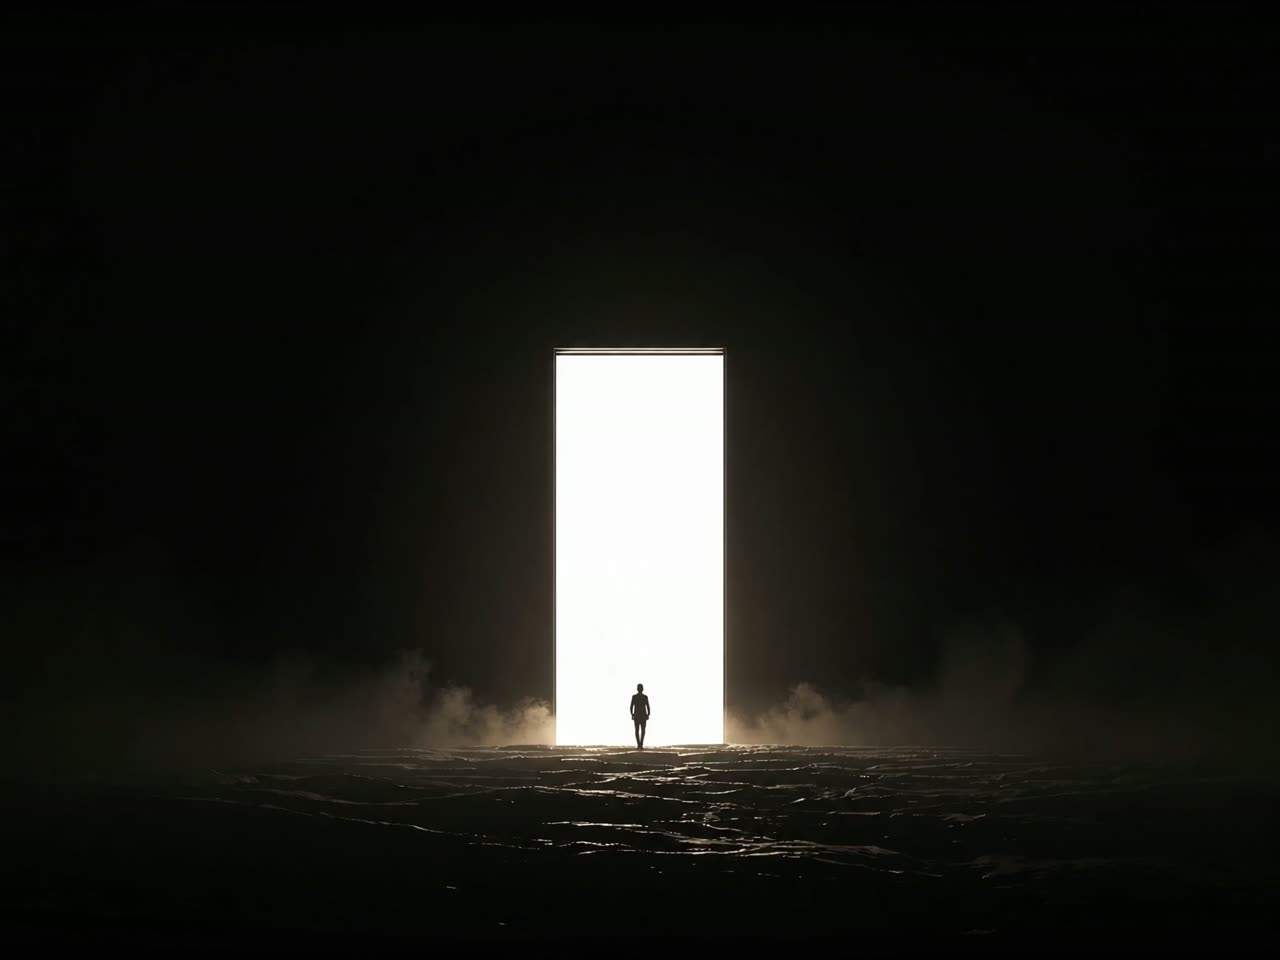
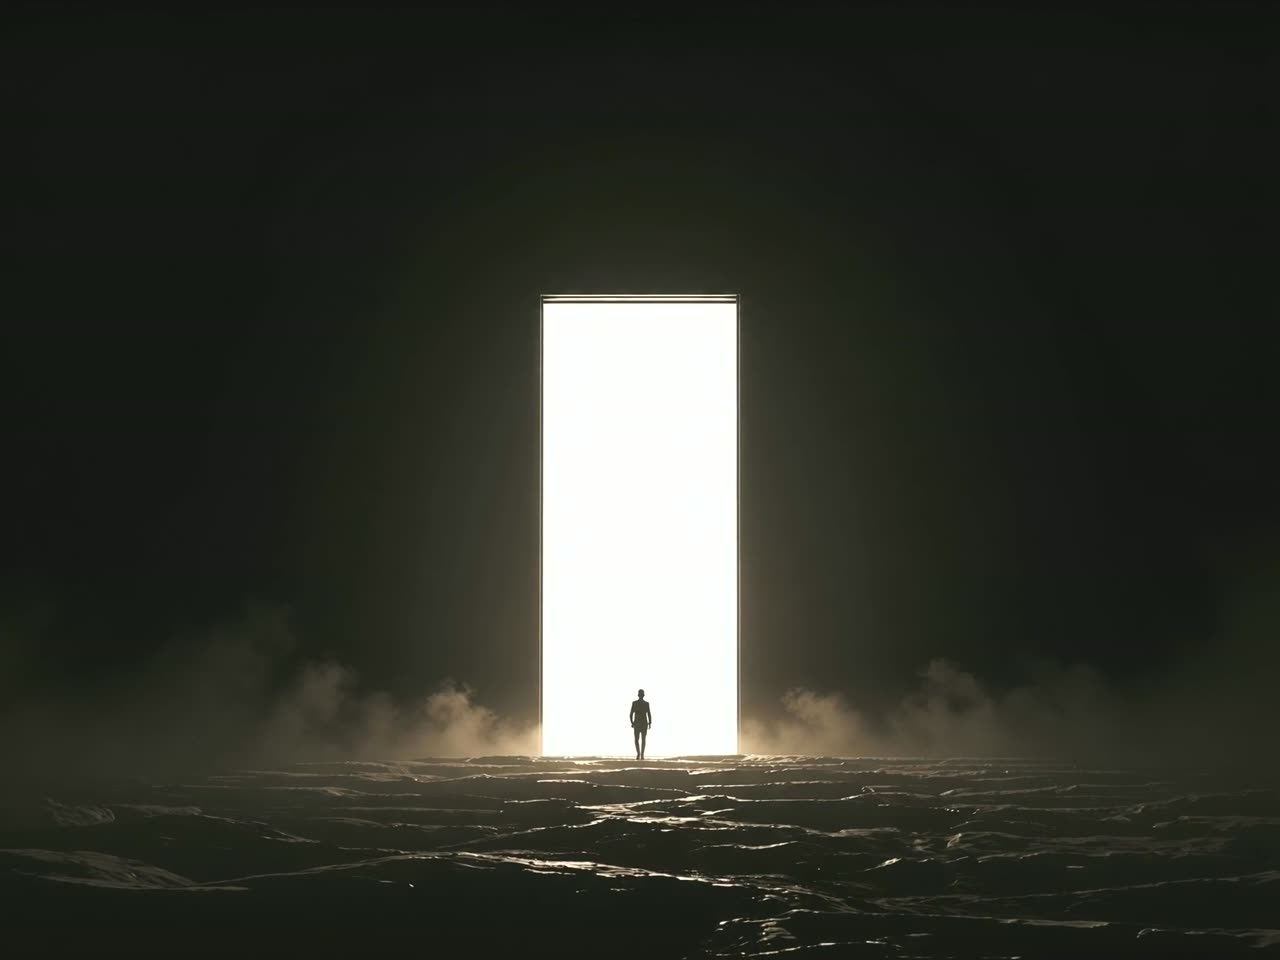
fix: 微信内置浏览器视频自动播放(WeixinJSBridge+首触播放+X5同层)，封面取亮帧并整体提亮

diff --git a/index.html b/index.html
@@ -75,6 +75,7 @@ button { font-family: inherit; cursor: pointer; border: none; background: none; 
   width: calc(1492 * var(--u)); height: calc(1054 * var(--u));
   transform: translateX(calc(-50% - calc(0.5 * var(--u))));
   object-fit: cover; pointer-events: none;
+  filter: brightness(1.08);
 }
 .plate::after {
   content: ''; position: absolute; inset: 0; pointer-events: none;
@@ -98,20 +99,20 @@ button { font-family: inherit; cursor: pointer; border: none; background: none; 
   .plate::after {
     background:
       linear-gradient(to right,
-        rgba(5,5,5,.86) 0%, rgba(5,5,5,.66) 42%,
-        rgba(5,5,5,.20) 78%, rgba(5,5,5,.10) 100%),
+        rgba(5,5,5,.66) 0%, rgba(5,5,5,.46) 42%,
+        rgba(5,5,5,.10) 78%, rgba(5,5,5,.03) 100%),
       linear-gradient(to bottom,
-        rgba(5,5,5,.72) 0%, rgba(5,5,5,.34) 24%,
-        rgba(5,5,5,.34) 56%, rgba(5,5,5,.80) 82%,
-        rgba(5,5,5,.97) 94%, #050505 100%);
+        rgba(5,5,5,.50) 0%, rgba(5,5,5,.20) 24%,
+        rgba(5,5,5,.20) 56%, rgba(5,5,5,.70) 82%,
+        rgba(5,5,5,.92) 94%, #050505 100%);
   }
   @media (min-width: 600px) {
     .plate-video { object-position: 44% center; }
     .plate::after {
       background:
         linear-gradient(to right,
-          rgba(5,5,5,.84) 0%, rgba(5,5,5,.60) 42%,
-          rgba(5,5,5,.16) 78%, rgba(5,5,5,.06) 100%),
+          rgba(5,5,5,.64) 0%, rgba(5,5,5,.42) 42%,
+          rgba(5,5,5,.08) 78%, rgba(5,5,5,.02) 100%),
         linear-gradient(to bottom,
           rgba(5,5,5,.66) 0%, rgba(5,5,5,.28) 24%,
           rgba(5,5,5,.30) 56%, rgba(5,5,5,.78) 82%,
@@ -862,23 +863,55 @@ body.is-open .menu-foot { opacity: 1; transform: translateY(0); }
     <video class="plate-video" id="heroVideo" autoplay muted loop playsinline preload="auto" poster="poster.jpg" aria-hidden="true"></video>
   </div>
   <script>
-  /* Hero 视频按视口确定性选源：手机 108KB 小版本 / 桌面 483KB 版本 */
+  /* Hero 视频：按视口选源 + 微信/浏览器自动播放兼容 */
   (function() {
     var v = document.getElementById('heroVideo');
     if (!v) return;
+    // X5（微信安卓）同层内联播放属性
+    v.setAttribute('playsinline', '');
+    v.setAttribute('webkit-playsinline', '');
+    v.setAttribute('x5-video-player-type', 'h5');
+    v.setAttribute('x5-video-player-fullscreen', 'false');
+    v.setAttribute('x5-video-orientation', 'portrait');
+    v.muted = true;
+
     function pick() {
       var src = window.innerWidth <= 900 ? 'hero-mobile.mp4' : 'hero.mp4';
       if (v.getAttribute('data-picked') !== src) {
         v.setAttribute('data-picked', src);
         v.src = src;
-        var p = v.play();
-        if (p && p.catch) p.catch(function() {});
       }
+      play();
+    }
+    function play() {
+      v.muted = true;
+      var p = v.play();
+      if (p && p.catch) p.catch(function() {});
     }
     pick();
+
+    // 常规浏览器：元数据就绪后重试
+    v.addEventListener('loadeddata', play);
+    v.addEventListener('canplay', play);
+
+    // 微信浏览器：WeixinJSBridge 就绪后才能自动播放（关键）
+    document.addEventListener('WeixinJSBridgeReady', play, false);
+    document.addEventListener('YixinJSBridgeReady', play, false);
+
+    // 兜底：用户首次触摸/点击页面任意位置即播放（微信安卓常见策略）
+    function kick() { play(); }
+    ['touchstart', 'click'].forEach(function(ev) {
+      window.addEventListener(ev, kick, { once: true, passive: true });
+    });
+
+    // 从后台切回时恢复播放
+    document.addEventListener('visibilitychange', function() {
+      if (!document.hidden) play();
+    });
+
     var t;
     window.addEventListener('resize', function() { clearTimeout(t); t = setTimeout(pick, 300); });
-    v.addEventListener('error', function() { v.style.display = 'none'; }, true);  // 极端失败时保留 poster/CSS 渐变底
+    v.addEventListener('error', function() { v.style.display = 'none'; }, true);
   })();
   </script>
 
